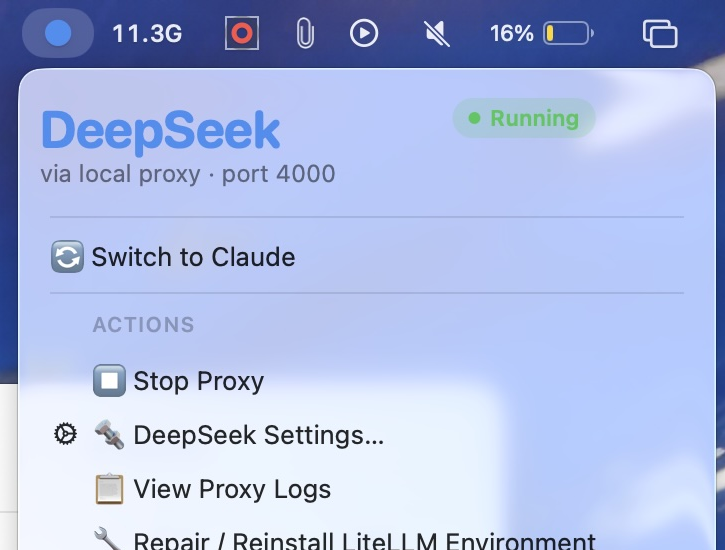
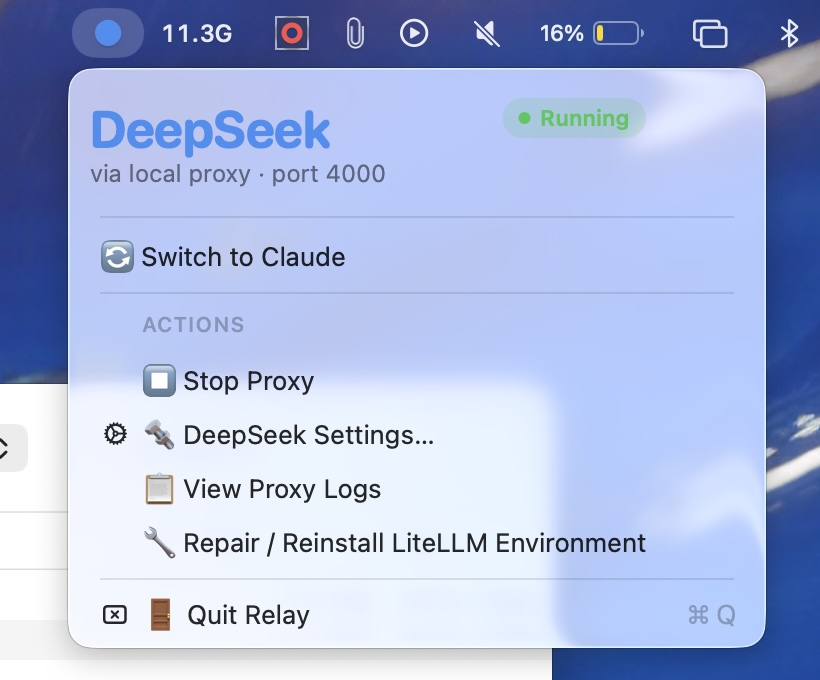
docs: full uncropped menu screenshot

diff --git a/README.md b/README.md
@@ -7,7 +7,7 @@ your Anthropic claude.ai subscription and DeepSeek API credits through a local
 One click switches everything. Quit the app and everything reverts.
 
 <p align="center">
-  <img src="docs/screenshot.png" width="320" alt="Relay menu dropdown showing routing toggle, proxy controls, and DeepSeek settings">
+  <img src="docs/screenshot.png" width="360" alt="Relay menu dropdown showing routing toggle, proxy controls, and DeepSeek settings">
   &nbsp;&nbsp;
   <img src="docs/architecture.svg" width="580" alt="Relay architecture: RelayKit is the pure-Swift core, the menu bar app sits on top, settings files and LiteLLM proxy below">
 </p>